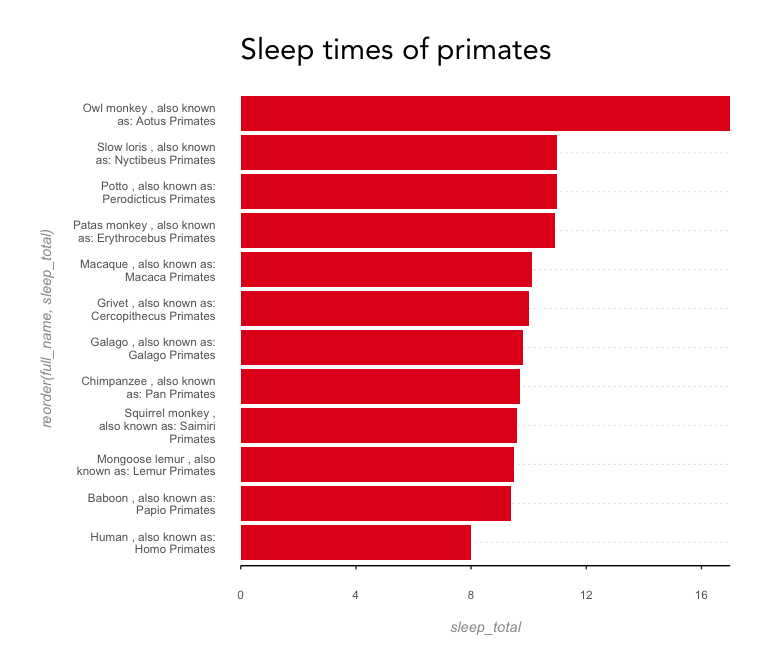
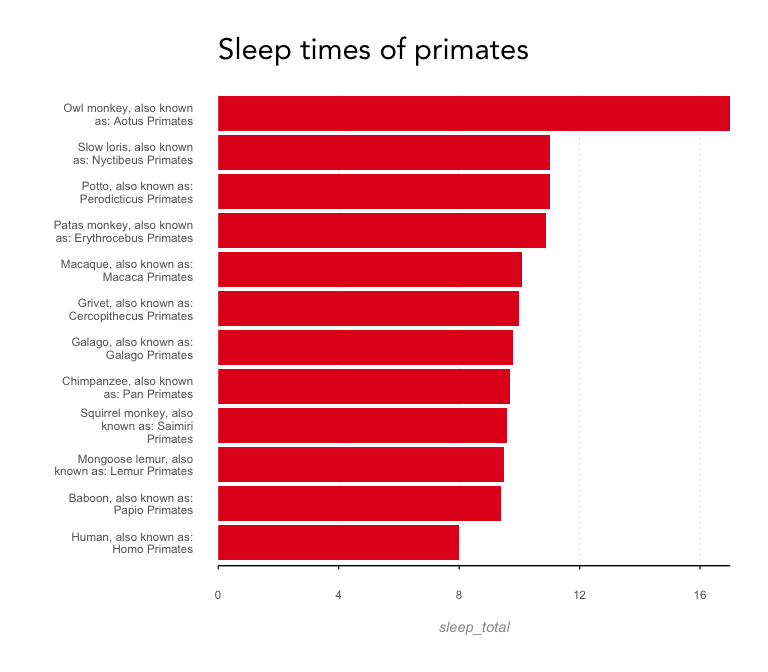
Added heatmaps

diff --git a/ggplot2-starters.md b/ggplot2-starters.md
@@ -80,20 +80,86 @@ Now let's go from stacked bars to non-stacked, and flip 'm over, because
 I always favor horizontal bars instead of vertical. It makes for easier
 comparison, especially for longer lists, and improves readability of the
 label text. Let's take a different data set and you'll see what I mean.
+We'll also use a trick to wrap the text of the labels, which can be
+convenient if you're labels are the questions from a questionnaire for
+example.
 
     #Make sure we have some long label names so you'll see how they wrap.
-    msleep["full_name"] <- paste(msleep$name, ", also known as: ", 
-                                 msleep$genus, msleep$order, sep = " ")
+    msleep["full_name"] <- paste(msleep$name, paste(", also known as: ", 
+                                 msleep$genus, msleep$order), sep = "")
 
     #now for the plot.
     p4 <- ggplot(msleep[msleep$order == "Primates",], aes(reorder(full_name, sleep_total), sleep_total)) +
       geom_bar(stat="identity", fill=brewer.pal(3, "Set1")[1]) +
+      #Our (stringr) trick for wrapping long labels on horizontal bar charts
       scale_x_discrete(labels = function(x) str_wrap(x, width = 25)) +
       scale_y_continuous(expand = c(0,0)) +
-      coord_flip()
+      coord_flip() +
+      ggtitle("Sleep times of primates")
 
     p4 +
       bg_and_axes +
-      ggtitle("Sleep times of primates")
+      theme(
+        panel.grid.major.x = element_line(colour = "#cccccc", size = 0.3, linetype = "dotted"),
+        panel.grid.major.y = element_blank(),
+        axis.title.y = element_blank())
 
 ![](figures/005_horizontal_bars-1.png)<!-- -->
+
+Next up is one of my favorite plots, the heatmap. A heatmap can be a
+great way to spot patterns in your data. It's usually the count, mean,
+or density of two categorical variables. I like plotting labels on the
+tiles of the heatmap because it can give the viewer a better
+understanding of the scope we're dealing with. A contrast in color helps
+to spot patterns, but it can mean a variety of things, which is why you
+often need to give some more context.
+
+    #We'll use the standard R data set with Hair and Eye Color of Statistics Students.
+    haireye <- as.data.frame(HairEyeColor)
+
+    #The data is ordered by hair color, eye color and sex, so we'll use summarise and groupby from the dplyr package to sum the frequencies for male and female.
+
+    p5 <- ggplot(summarise(group_by(haireye, Hair, Eye), Freq=sum(Freq)), 
+           aes(x=Hair, y=Eye, fill=Freq)) +
+      geom_tile() +
+      geom_text(aes(label=sprintf("%1.2f%%",Freq/sum(Freq)*100)), colour = "white") +
+      scale_fill_distiller(palette = "Greens", direction = 1) +
+      scale_y_discrete(expand = c(0,0)) +
+      scale_x_discrete(expand = c(0,0)) +
+      ggtitle("Hair and Eye Color of Statistics Students")
+     
+    p5_options <- bg_and_axes +
+      theme(
+        legend.position = 0,
+        axis.line.x = element_blank(),
+        axis.ticks.x = element_blank()
+      )
+
+    p5 + 
+      p5_options
+
+![](figures/006_heatmap-1.png)<!-- -->
+
+In the case above we've combined the frequencies for male and female,
+but because heatmaps are such a great way to show patterns, we can also
+easily compare the two visually.
+
+    p6 <- ggplot(haireye, aes(x=Hair, y=Eye, fill=Freq)) +
+      geom_tile() +
+      geom_text(aes(label=sprintf("%1.2f%%",Freq/sum(Freq)*100)), colour = "white") +
+      scale_fill_distiller(palette = "Greens", direction = 1) +
+      scale_y_discrete(expand = c(0,0)) +
+      scale_x_discrete(expand = c(0,0)) +
+      ggtitle("Hair and Eye Color of Statistics Students") +
+      facet_wrap(~Sex)
+
+    facet_options <- theme(
+      strip.background = element_blank(),
+      strip.text = element_text(face = "bold")
+    )
+
+    p6 +
+      p5_options +
+      facet_options
+
+![](figures/007_heatmap_male_female-1.png)<!-- -->
